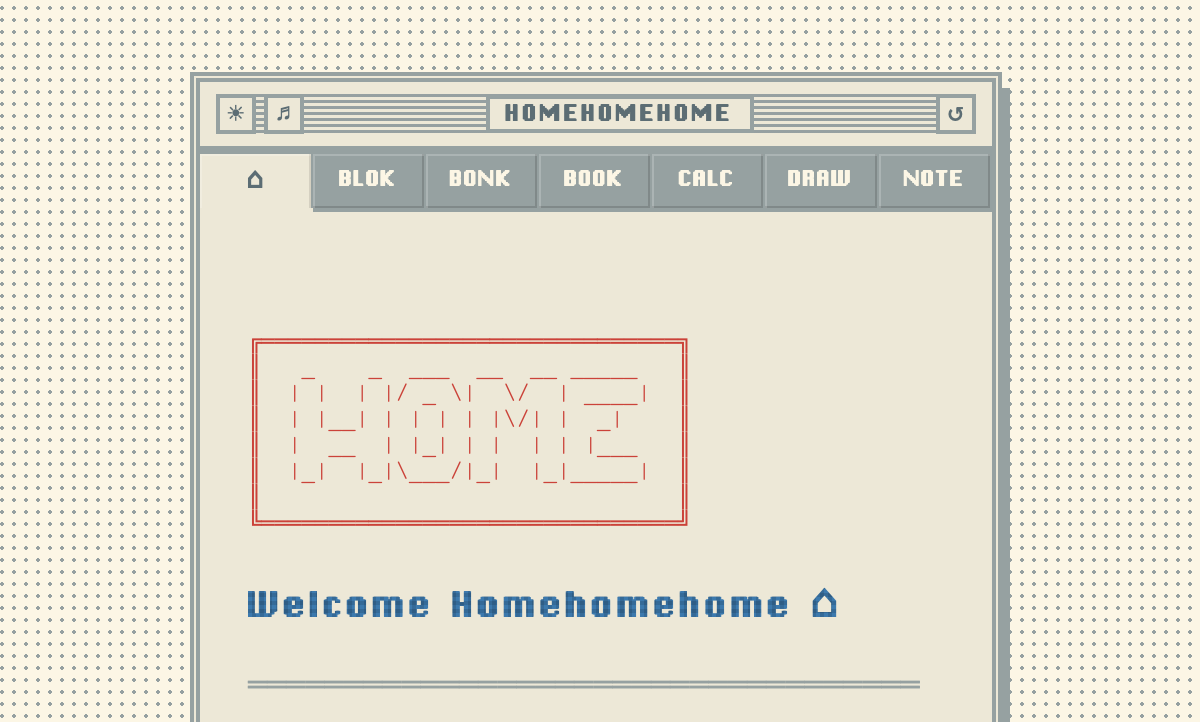
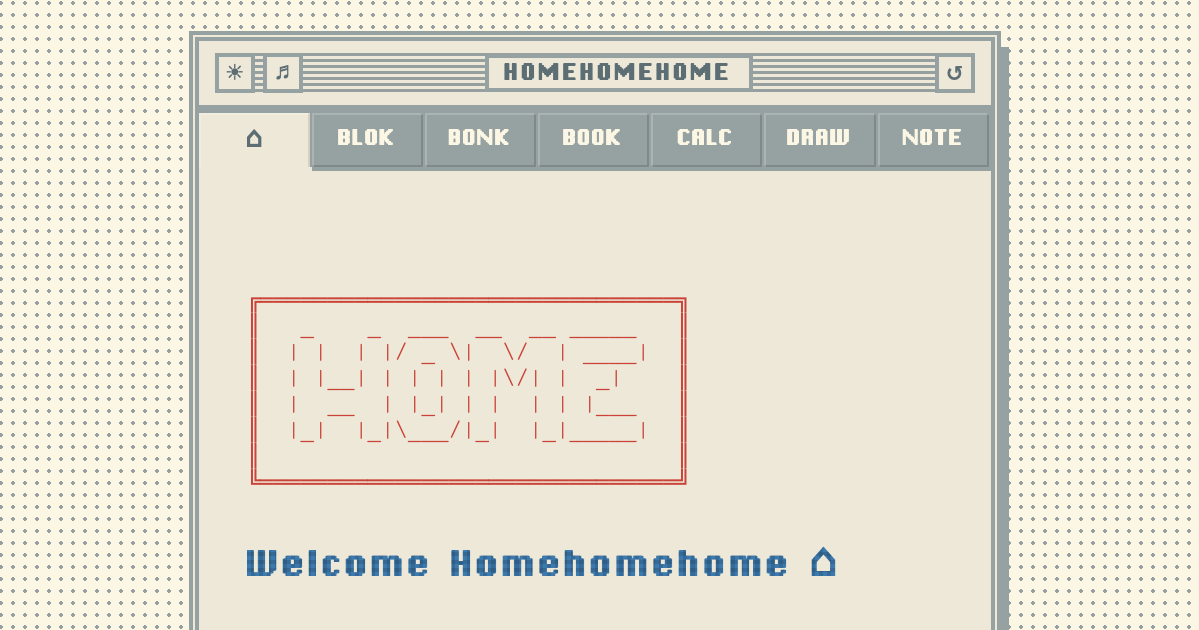
fix: update book file paths to include the homehome directory

diff --git a/book.js b/book.js
@@ -111,46 +111,46 @@ renderBookList = function() {
 // book.js loaded
 
 const books = [
-  { id: 'frankenstein', title: 'Frankenstein; or, The Modern Prometheus', author: 'Mary Shelley', file: '/books/frankenstein.txt' },
-  { id: 'thirtyninesteps', title: 'The Thirty-Nine Steps', author: 'John Buchan', file: '/books/thirtyninesteps.txt' },
-  { id: 'littlewomen', title: 'Little Women', author: 'Louisa May Alcott', file: '/books/littlewomen.txt' },
-  { id: 'janeeyre', title: 'Jane Eyre', author: 'Charlotte Brontë', file: '/books/janeeyre.txt' },
-  { id: 'treasureisland', title: 'Treasure Island', author: 'Robert Louis Stevenson', file: '/books/treasureisland.txt' },
-  { id: 'yellowwallpaper', title: 'The Yellow Wallpaper', author: 'Charlotte Perkins Gilman', file: '/books/yellowwallpaper.txt' },
-  { id: 'awakening', title: 'The Awakening', author: 'Kate Chopin', file: '/books/awakening.txt' },
-  { id: 'mobydick', title: 'Moby-Dick; or, The Whale', author: 'Herman Melville', file: '/books/mobydick.txt' },
-  { id: 'rubaiyat', title: 'The Rubaiyat of Omar Khayyam', author: 'Omar Khayyam', file: '/books/rubaiyat.txt' },
-  { id: 'aroundtheworld', title: 'Around the World in Eighty Days', author: 'Jules Verne', file: '/books/aroundtheworld.txt' },
-  { id: 'callofcthulhu', title: 'The Call of Cthulhu', author: 'H. P. Lovecraft', file: '/books/callofcthulhu.txt' },
-  { id: 'prideandprejudice', title: 'Pride and Prejudice', author: 'Jane Austen', file: '/books/prideandprejudice.txt' },
-  { id: 'middlemarch', title: 'Middlemarch', author: 'George Eliot', file: '/books/middlemarch.txt' },
-  { id: 'beowulf', title: 'Beowulf', author: 'Unknown', file: '/books/beowulf.txt' },
-  { id: 'enchantedapril', title: 'The Enchanted April', author: 'Elizabeth Von Arnim', file: '/books/enchantedapril.txt' },
-  { id: 'metamorphosis', title: 'Metamorphosis', author: 'Franz Kafka', file: '/books/metamorphosis.txt' },
-  { id: 'roomwithaview', title: 'A Room with a View', author: 'E. M. Forster', file: '/books/roomwithaview.txt' },
-  { id: 'greatgatsby', title: 'The Great Gatsby', author: 'F. Scott Fitzgerald', file: '/books/greatgatsby.txt' },
-  { id: 'anneofgreengables', title: 'Anne of Green Gables', author: 'L. M. Montgomery', file: '/books/anneofgreengables.txt' },
-  { id: 'dubliners', title: 'Dubliners', author: 'James Joyce', file: '/books/dubliners.txt' },
-  { id: 'bookoftea', title: 'The Book of Tea', author: 'Kakuzo Okakura', file: '/books/bookoftea.txt' },
-  { id: 'gulliverstravels', title: 'Gulliver\'s Travels', author: 'Jonathan Swift', file: '/books/gulliverstravels.txt' },
-  { id: 'mrsspringfragrance', title: 'Mrs. Spring Fragrance', author: 'Sui Sin Far', file: '/books/mrsspringfragrance.txt' },
-  { id: 'opioneers', title: 'O Pioneers!', author: 'Willa Cather', file: '/books/opioneers.txt' },
-  { id: 'goldenthreshold', title: 'The Golden Threshold', author: 'Sarojini Naidu', file: '/books/goldenthreshold.txt' },
-  { id: 'shipsthatpass', title: 'Ships That Pass In The Night', author: 'Beatrice Harraden', file: '/books/shipsthatpass.txt' },
-  { id: 'meditations', title: 'Meditations', author: 'Marcus Aurelius', file: '/books/meditations.txt' },
-  { id: 'timemachine', title: 'The Time Machine', author: 'H. G. Wells', file: '/books/timemachine.txt' },
-  { id: 'wutheringheights', title: 'Wuthering Heights', author: 'Emily Brontë', file: '/books/wutheringheights.txt' },
-  { id: 'poemsandsongs', title: 'Poems and Songs of Robert Burns', author: 'Robert Burns', file: '/books/poemsandsongs.txt' },
-  { id: 'secretgarden', title: 'The Secret Garden', author: 'Frances Hodgson Burnett', file: '/books/secretgarden.txt' },
-  { id: 'heidi', title: 'Heidi', author: 'Johanna Spyri', file: '/books/heidi.txt' },
-  { id: 'junglebook', title: 'The Jungle Book', author: 'Rudyard Kipling', file: '/books/junglebook.txt' },
-  { id: 'peterpan', title: 'Peter Pan', author: 'J. M. Barrie', file: '/books/peterpan.txt' },
-  { id: 'aliceinwonderland', title: 'Alice\'s Adventures in Wonderland', author: 'Lewis Carroll', file: '/books/aliceinwonderland.txt' },
-  { id: 'peterrabbit', title: 'The Tale of Peter Rabbit', author: 'Beatrix Potter', file: '/books/peterrabbit.txt' },
-  { id: 'blackbeauty', title: 'Black Beauty', author: 'Anna Sewell', file: '/books/blackbeauty.txt' },
-  { id: 'railwaychildren', title: 'The Railway Children', author: 'E. Nesbit', file: '/books/railwaychildren.txt' },
-  { id: 'winniethepooh', title: 'Winnie-the-Pooh', author: 'A. A. Milne', file: '/books/winniethepooh.txt' },
-  { id: 'velveteenrabbit', title: 'The Velveteen Rabbit', author: 'Margery Williams Bianco', file: '/books/velveteenrabbit.txt' }, 
+  { id: 'frankenstein', title: 'Frankenstein; or, The Modern Prometheus', author: 'Mary Shelley', file: '/homehome/books/frankenstein.txt' },
+  { id: 'thirtyninesteps', title: 'The Thirty-Nine Steps', author: 'John Buchan', file: '/homehome/books/thirtyninesteps.txt' },
+  { id: 'littlewomen', title: 'Little Women', author: 'Louisa May Alcott', file: '/homehome/books/littlewomen.txt' },
+  { id: 'janeeyre', title: 'Jane Eyre', author: 'Charlotte Brontë', file: '/homehome/books/janeeyre.txt' },
+  { id: 'treasureisland', title: 'Treasure Island', author: 'Robert Louis Stevenson', file: '/homehome/books/treasureisland.txt' },
+  { id: 'yellowwallpaper', title: 'The Yellow Wallpaper', author: 'Charlotte Perkins Gilman', file: '/homehome/books/yellowwallpaper.txt' },
+  { id: 'awakening', title: 'The Awakening', author: 'Kate Chopin', file: '/homehome/books/awakening.txt' },
+  { id: 'mobydick', title: 'Moby-Dick; or, The Whale', author: 'Herman Melville', file: '/homehome/books/mobydick.txt' },
+  { id: 'rubaiyat', title: 'The Rubaiyat of Omar Khayyam', author: 'Omar Khayyam', file: '/homehome/books/rubaiyat.txt' },
+  { id: 'aroundtheworld', title: 'Around the World in Eighty Days', author: 'Jules Verne', file: '/homehome/books/aroundtheworld.txt' },
+  { id: 'callofcthulhu', title: 'The Call of Cthulhu', author: 'H. P. Lovecraft', file: '/homehome/books/callofcthulhu.txt' },
+  { id: 'prideandprejudice', title: 'Pride and Prejudice', author: 'Jane Austen', file: '/homehome/books/prideandprejudice.txt' },
+  { id: 'middlemarch', title: 'Middlemarch', author: 'George Eliot', file: '/homehome/books/middlemarch.txt' },
+  { id: 'beowulf', title: 'Beowulf', author: 'Unknown', file: '/homehome/books/beowulf.txt' },
+  { id: 'enchantedapril', title: 'The Enchanted April', author: 'Elizabeth Von Arnim', file: '/homehome/books/enchantedapril.txt' },
+  { id: 'metamorphosis', title: 'Metamorphosis', author: 'Franz Kafka', file: '/homehome/books/metamorphosis.txt' },
+  { id: 'roomwithaview', title: 'A Room with a View', author: 'E. M. Forster', file: '/homehome/books/roomwithaview.txt' },
+  { id: 'greatgatsby', title: 'The Great Gatsby', author: 'F. Scott Fitzgerald', file: '/homehome/books/greatgatsby.txt' },
+  { id: 'anneofgreengables', title: 'Anne of Green Gables', author: 'L. M. Montgomery', file: '/homehome/books/anneofgreengables.txt' },
+  { id: 'dubliners', title: 'Dubliners', author: 'James Joyce', file: '/homehome/books/dubliners.txt' },
+  { id: 'bookoftea', title: 'The Book of Tea', author: 'Kakuzo Okakura', file: '/homehome/books/bookoftea.txt' },
+  { id: 'gulliverstravels', title: 'Gulliver\'s Travels', author: 'Jonathan Swift', file: '/homehome/books/gulliverstravels.txt' },
+  { id: 'mrsspringfragrance', title: 'Mrs. Spring Fragrance', author: 'Sui Sin Far', file: '/homehome/books/mrsspringfragrance.txt' },
+  { id: 'opioneers', title: 'O Pioneers!', author: 'Willa Cather', file: '/homehome/books/opioneers.txt' },
+  { id: 'goldenthreshold', title: 'The Golden Threshold', author: 'Sarojini Naidu', file: '/homehome/books/goldenthreshold.txt' },
+  { id: 'shipsthatpass', title: 'Ships That Pass In The Night', author: 'Beatrice Harraden', file: '/homehome/books/shipsthatpass.txt' },
+  { id: 'meditations', title: 'Meditations', author: 'Marcus Aurelius', file: '/homehome/books/meditations.txt' },
+  { id: 'timemachine', title: 'The Time Machine', author: 'H. G. Wells', file: '/homehome/books/timemachine.txt' },
+  { id: 'wutheringheights', title: 'Wuthering Heights', author: 'Emily Brontë', file: '/homehome/books/wutheringheights.txt' },
+  { id: 'poemsandsongs', title: 'Poems and Songs of Robert Burns', author: 'Robert Burns', file: '/homehome/books/poemsandsongs.txt' },
+  { id: 'secretgarden', title: 'The Secret Garden', author: 'Frances Hodgson Burnett', file: '/homehome/books/secretgarden.txt' },
+  { id: 'heidi', title: 'Heidi', author: 'Johanna Spyri', file: '/homehome/books/heidi.txt' },
+  { id: 'junglebook', title: 'The Jungle Book', author: 'Rudyard Kipling', file: '/homehome/books/junglebook.txt' },
+  { id: 'peterpan', title: 'Peter Pan', author: 'J. M. Barrie', file: '/homehome/books/peterpan.txt' },
+  { id: 'aliceinwonderland', title: 'Alice\'s Adventures in Wonderland', author: 'Lewis Carroll', file: '/homehome/books/aliceinwonderland.txt' },
+  { id: 'peterrabbit', title: 'The Tale of Peter Rabbit', author: 'Beatrix Potter', file: '/homehome/books/peterrabbit.txt' },
+  { id: 'blackbeauty', title: 'Black Beauty', author: 'Anna Sewell', file: '/homehome/books/blackbeauty.txt' },
+  { id: 'railwaychildren', title: 'The Railway Children', author: 'E. Nesbit', file: '/homehome/books/railwaychildren.txt' },
+  { id: 'winniethepooh', title: 'Winnie-the-Pooh', author: 'A. A. Milne', file: '/homehome/books/winniethepooh.txt' },
+  { id: 'velveteenrabbit', title: 'The Velveteen Rabbit', author: 'Margery Williams Bianco', file: '/homehome/books/velveteenrabbit.txt' }, 
   // Add new books here
 ];
 
